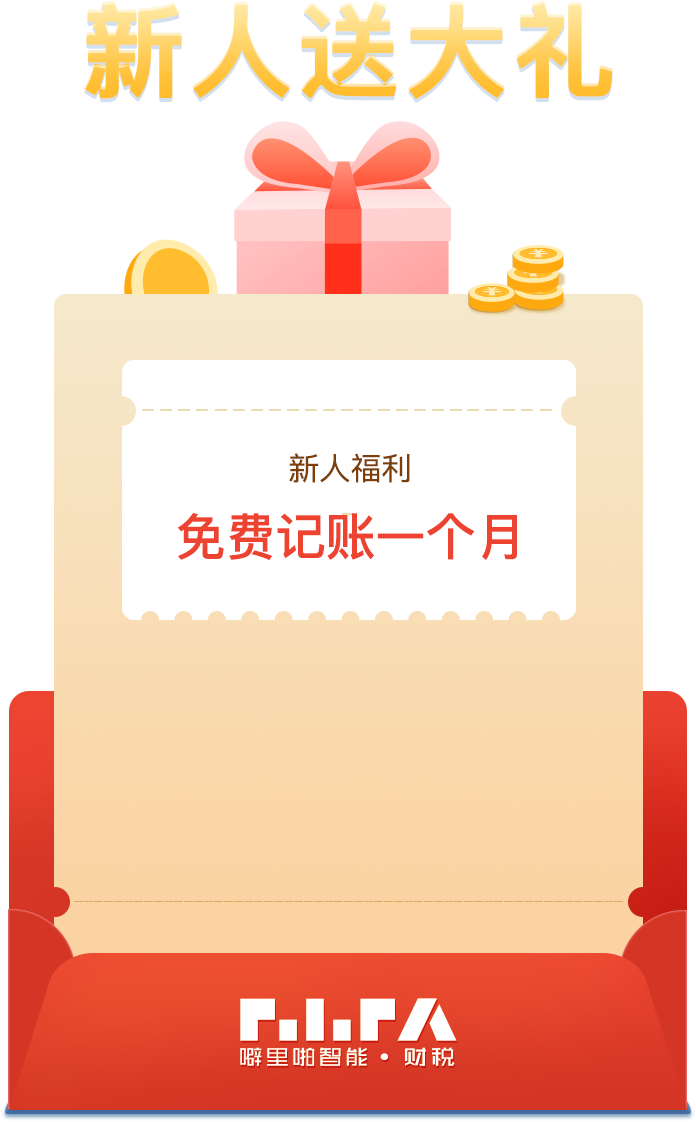
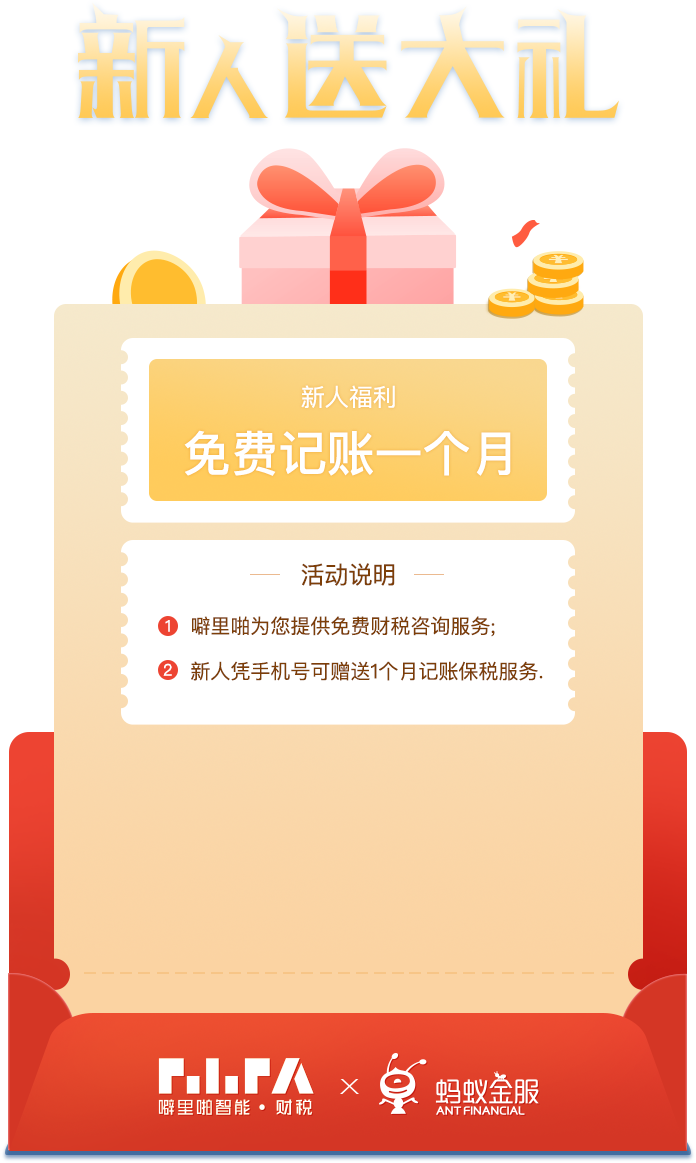
[feat] 礼包 related to issue #1

diff --git a/client/container/activities/gift/index.tsx b/client/container/activities/gift/index.tsx
@@ -24,7 +24,9 @@ class Main extends React.Component<Props> {
     let phone = ''
     const result = this.props.location.search.match(/phone=(.*)&?/)
     if (result instanceof Array && result.length > 1) {
-      phone = result[1]
+      let phonelist = result[1].match(/phone=(.+?)&/)
+      console.log(phonelist, '1222')
+      phone = phonelist[1]
     }
     return phone
   }
@@ -68,7 +70,7 @@ class Main extends React.Component<Props> {
               }
               Services.addCustomerbyGift(params).then((res) => {
                 if (res.status === 200) {
-                  APP.toast('已为您安排专业顾问，会尽快与您联系')
+                  APP.toast('已为您安排专业顾问，会尽快与您联系', 3)
                   this.setState({
                     haveReceived: true
                   })

diff --git a/client/utils/app/index.ts b/client/utils/app/index.ts
@@ -1,8 +1,8 @@
 import { Toast } from 'antd-mobile'
 import Cookies from 'js-cookie'
 Object.assign(APP, {
-  toast: (message) => {
-    Toast.info((message || '未知错误'), 1)
+  toast: (message, duration = 1) => {
+    Toast.info((message || '未知错误'), duration)
   }
 })
 if (__CLIENT__) {

diff --git a/client/utils/app/global.config.ts b/client/utils/app/global.config.ts
@@ -15,7 +15,7 @@ declare namespace APP {
       goBack: any
     }
     /** 提示信息 */
-    toast: (message: string) => void
+    toast: (message: string, duration?: number) => void
     token: string
   }
 }

diff --git a/client/container/user/customer/index.tsx b/client/container/user/customer/index.tsx
@@ -67,6 +67,10 @@ class Main extends React.Component {
             loading: false
           })
         }
+      }, () => {
+        this.setState({
+          loading: false
+        })
       })
     }
   }

diff --git a/client/container/activities/gift/style.module.sass b/client/container/activities/gift/style.module.sass
@@ -23,7 +23,7 @@
     margin: 0 auto
     top: 10px
   .form-card
-    margin: 340px auto 0
+    margin: 390px auto 0
     width: 225px
     color: rgba(121, 70, 29, 0)
     .item
